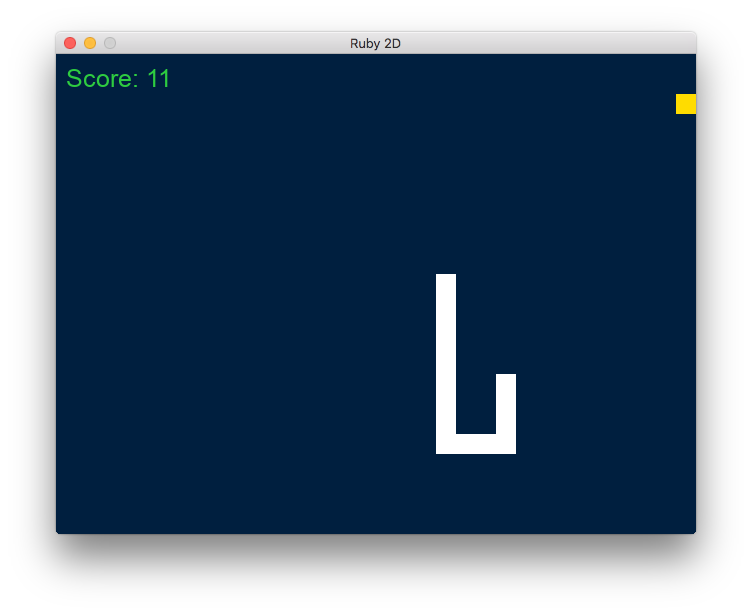
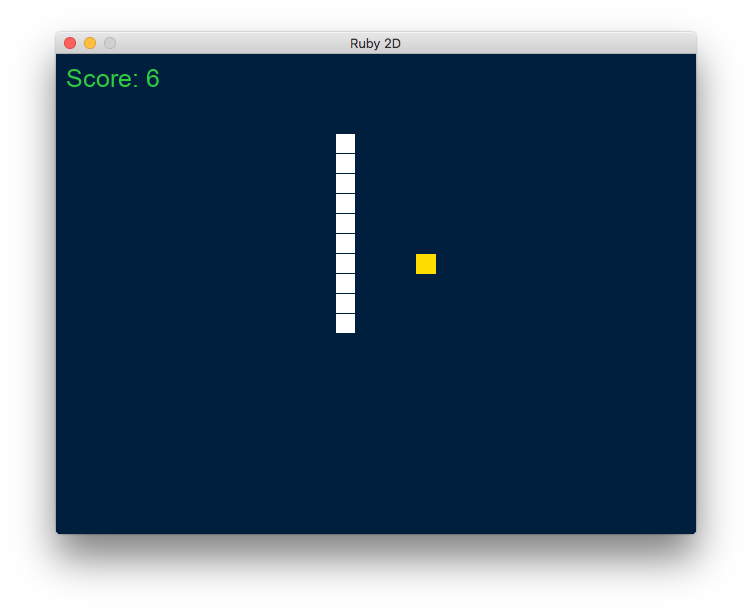
Make boxes on the snake visible
On the snake make the boxes visible by drawing each box 1 size smaller
than the grid size. Screenshots are updated now. Also removed unused
variable.

diff --git a/02 - Snake/game.rb b/02 - Snake/game.rb
@@ -3,7 +3,6 @@ require 'ruby2d'
 set background: 'navy'
 set fps_cap: 20
 
-INITIAL_SPEED = 10
 SQUARE_SIZE = 20
 GRID_WIDTH = Window.width / SQUARE_SIZE
 GRID_HEIGHT = Window.height / SQUARE_SIZE
@@ -19,7 +18,7 @@ class Snake
 
   def draw
     @positions.each do |position|
-      Square.new(x: position[0] * SQUARE_SIZE, y: position[1] * SQUARE_SIZE, size: SQUARE_SIZE, color: 'white')
+      Square.new(x: position[0] * SQUARE_SIZE, y: position[1] * SQUARE_SIZE, size: SQUARE_SIZE - 1, color: 'white')
     end
   end
 
